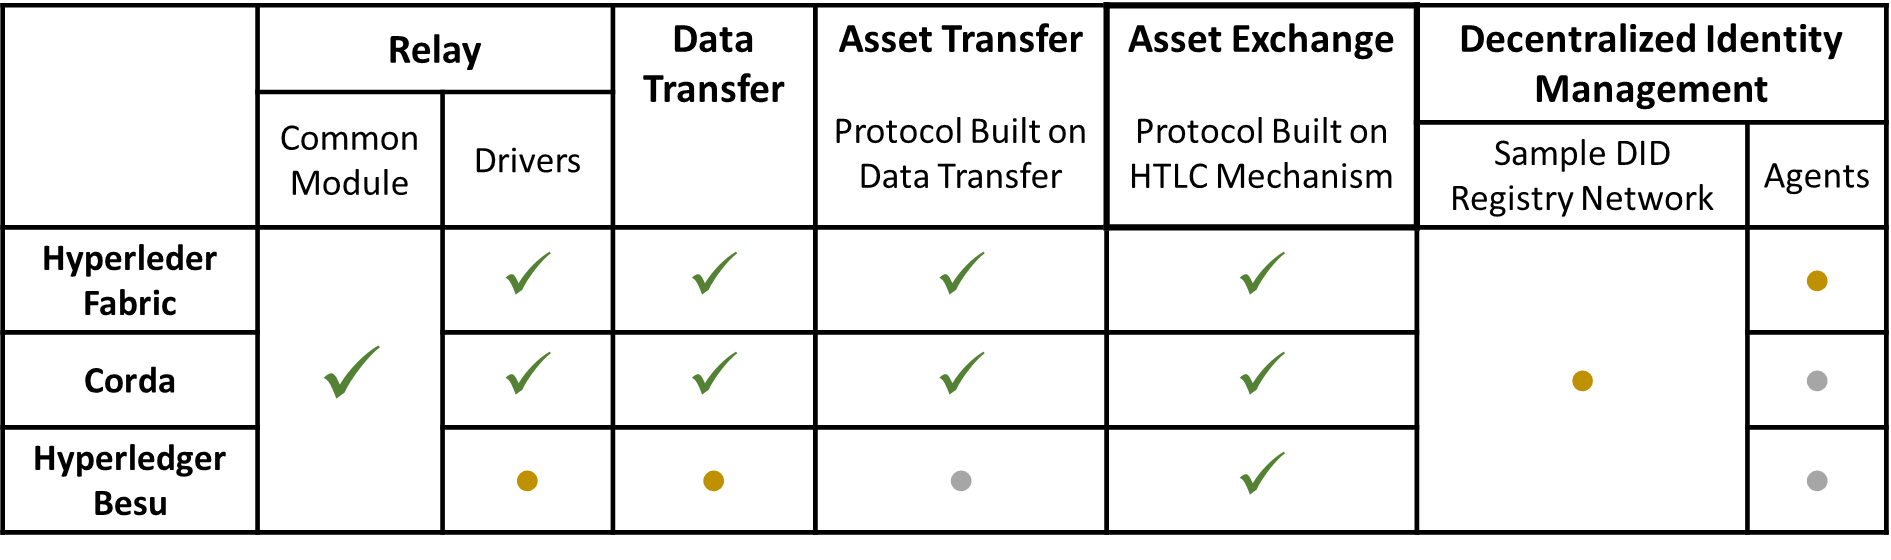
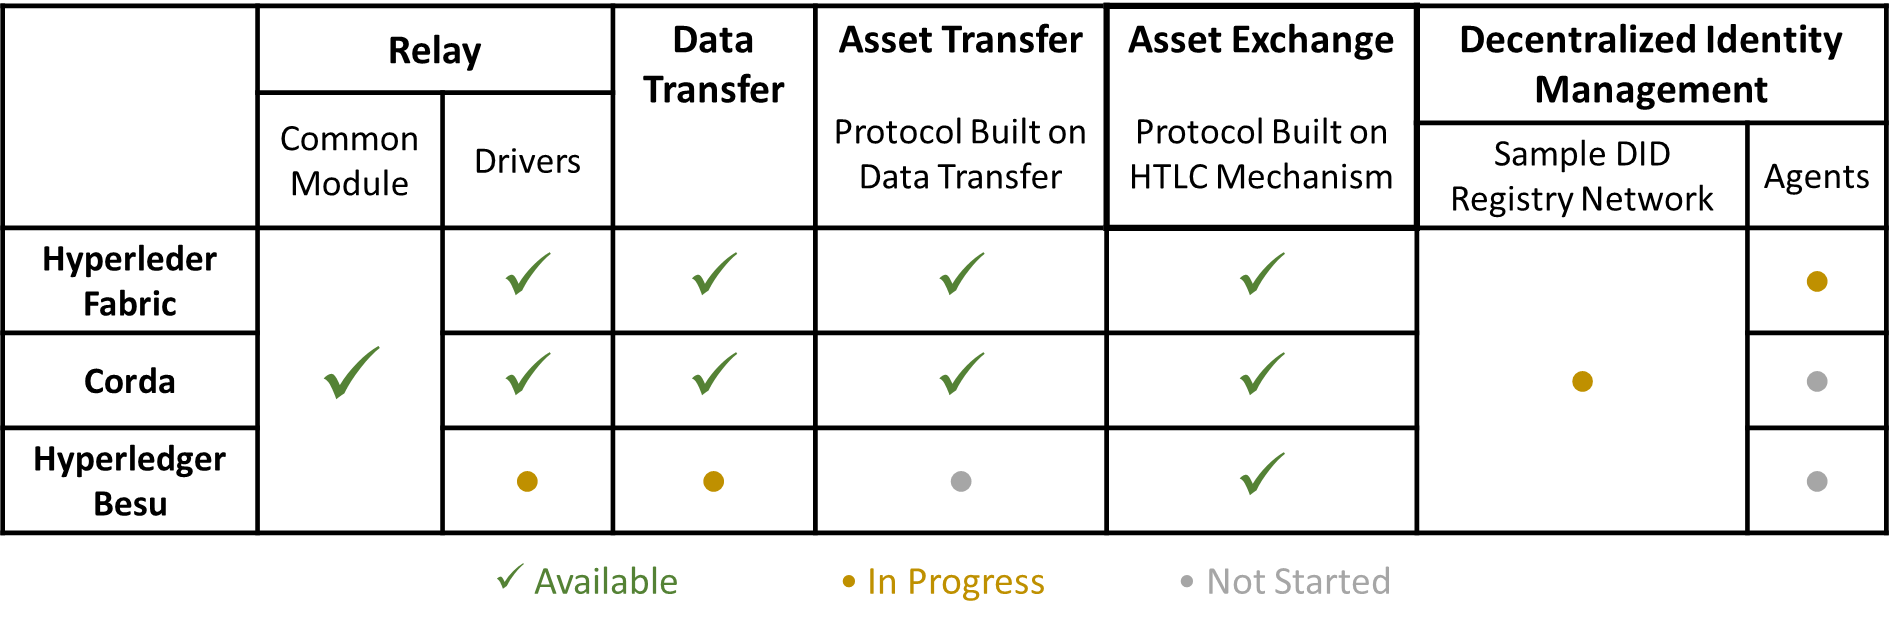
Updated main README and fixed broken image links in rfcs

diff --git a/README.md b/README.md
@@ -10,27 +10,38 @@
 ![Corda Asset Exchange Status](https://github.com/hyperledger-labs/weaver-dlt-interoperability/actions/workflows/test_asset-exchange-corda.yml/badge.svg?event=push)
 ![Asset Transfer Status](https://github.com/hyperledger-labs/weaver-dlt-interoperability/actions/workflows/test_asset-transfer.yml/badge.svg?event=push)
 
-## Short Description
-A framework, with a family of protocols, to enable interoperation for data sharing and asset movements among independent networks built on similar or different distributd ledger technologies (DLTs) in a manner that preserves the core blockchain tenets of decentralization and security.
-
-## Scope of Lab
-- We aim to provide a framework that allows two independent networks, typically (though not limited to) permissioned ones, to interoperate on a need basis.
+Weaver is a framework, with a family of protocols, to enable interoperation for data sharing and asset movements among independent networks built on similar or different distributed ledger technologies (DLTs) in a manner that preserves the core blockchain tenets of decentralization and security. To this end, it is built on a particular design philosophy that differentiates it from other DLT interoperability solutions in the market. This philosophy can be summarized through the following design principles or guidelines:
+- A network is self-sovereign in matters of governance and should be able to choose who, how, and when, to interoperate with.
 - Interoperation does not rely on trusted mediators. Rules and requirements are framed using the networks' internal governance mechanisms.
 - Interoperation relies minimally on shared infrastructure, which may provide identity, discovery, and routing, services but does not play a part in core cross-network transactions (which may involve request-response protocols).
 - Interoperation occurs through protocols that derive their trust from the counterparty networks' native consensus mechanisms, because any cross-network transaction method that eschews or bypasses the respective networks' consensus mechanisms will be vulnerable to failure or attack.
-- Core capabilities (or suported use cases) include data-sharing across ledgers with proof of authenticity and provenance, atomic asset transfers between networks, and atomic asset exchanges in multiple networks.
-- Our framework offers common components that can be reused in networks built on any arbitrary DLT as well as design templates for components that must be built on DLT-specific tech stacks. We will strive to provide acclerators that minimize the effort involved in building DLT-specific components. Presently, we support Hyperledger Fabric and Corda, and to some extent Hyperledger Besu.
+- Interoperation should be enabled without requiring modifications to the DLT stack on which a network is built nor should it disrupt regular network operation. All that should be required are addition and configuration of enabling modules and adapting application workflows to make them interoperation-aware.
+
+## Weaver Use Cases
+The framework allows two independent networks built on the same or different DLTs to interoperate on a need basis. Though presently, Weaver supports only permissioned DLTs (Hyperledger Fabric, Corda, and to some extent Hyperledger Besu), the design encompasses both permissioned and open DLTs. We expect to add support to the latter (e.g., Ethereum, Bitcoin) in due course.
+
+Weaver, in effect, allows smart contracts managing data and assets on their respective ledgers to interlink and thereby produce an augnmented business workflow that can span multiple shared ledgers and networks. The core capabilities (or use cases) in Weaver that are the building blocks for cross-network operations are:
+- Data-sharing across ledgers with proof of authenticity and provenance
+- Atomic asset transfers between networks
+- Atomic asset exchanges in multiple networks
+Each capability is implemented as a protocol with the endpoints being the respective peer networks that arrive at ledger state update decisions through consensus. See the [project overview](./OVERVIEW.md) for more information and references.
+With Weaver, limited-scope blockchain networks can be scaled up to a _network-of-networks_ where different DLT networks can interoperate using Weaver's protocols ad hoc, thereby creating an illusion of a worldwide distributed ledger (or blockchain) without requiring netowrks to sacrifice their independence. This is illustrated in the figure below.
+
+<img src="./resources/images/weaver-vision.png">
+
+## Weaver Components
+The framework offers common components that can be reused in networks built on any arbitrary DLT as well as design templates for components that must be built on DLT-specific tech stacks. We will strive to provide acclerators that minimize the effort involved in building DLT-specific components. Presently, we support Hyperledger Fabric and Corda, and to some extent Hyperledger Besu.
 - The key platform elements are:
   * Protocol units, namely request access control, generation and verification of ledger state authenticity proofs, hash- and time-locking of assets, and claiming and unlocking of assets. These units leverage the networks' native smart contract frameworks.
   * Generic and extensible patterns for _ledger views_ and _view addresses_ for seamless inter-network communication. Our goal is to provide a basis for an eventual standard that is not tied to a particular DLT implementation.
   * Generic (i.e., not DLT-specific) semi-trusted _relay_ modules that mediate communication while acting on behalf of individual networks. They serve discovery and routing purposes akin to the routing and DNS infrastructure of the conventional internet.
   * DLT-specific plugins called _drivers_ that augment relay capabilities with query- and response-translation mechanisms.
-  * Agents, consisting of both generic and DLT-specific features, that sync foreign networks' membership lists and identity provider credentials, using existing decentralized identity (DID) and verifiable credential (VC) ins=frastructure.
+  * Agents, consisting of both generic and DLT-specific features, that sync foreign networks' membership lists and identity provider credentials, using existing decentralized identity (DID) and verifiable credential (VC) infrastructure.
 - Apart from the core platform features listed above, we provide SDK extensions for network application users to adapt existing apps for interoperability.
-- We will provide and maintain a basic _testnet_ for rapid prototyping and testing.
+- We provide and maintain basic _testnets_ built on different DLTs (Fabric, Corda, Besu at present) for rapid prototyping and testing.
 For more details and illustrations, see the [project overview](./OVERVIEW.md).
 
-# Weaver Support Status
+## Weaver Support Status
 The table below shows what interoperation capabilities (or use cases) are presently supported by Weaver, and what DLTs the platform offers out-of-the-box components for.
 - Any network built on a supported DLT can utilize Weaver capabilities with additional effort required only in configuration and minor adaptations in applications to exercise those capabilities as required in their workflows.
 - For any unsupported DLT, engineering effort will be required to build protocol units, drivers, and identity sync agents, using Weaver's common protobuf structures, design templates, and API specifications. (Because DLTs are heterogeneous with divergent models for data storage, smart contracts, and distributed application development procedures, it is difficult to write reusable code for this purpose.)
@@ -53,16 +64,21 @@ Prominent features in our future roadmap are:
 - Testing, experimentation, and evaluation frameworks, are implemented in the [tests](./tests) folder.
   * An extensible _testnet_ is implemented in the [tests/network-setups folder](./tests/network-setups) to spin up basic Fabric, Corda, and Besu networks, and test various cross-network operations.
 
-## Initial Committers
+## Active Maintainers
 - https://github.com/VRamakrishna
+- https://github.com/sanvenDev
+- https://github.com/knarayan
+- https://github.com/dhinakaran2705
+
+## Other Contributors
+- https://github.com/ghoshbishakh
+
+## Initial Committers
 - https://github.com/ermyas
 - https://github.com/nwaywood
 - https://github.com/dileban
 - https://github.com/airvin
 - https://github.com/AntTargett
-- https://github.com/sanvenDev
-- https://github.com/knarayan
-- https://github.com/dhinakaran2705
 - https://github.com//Yining-Hu
 - https://github.com/Vinayaka-Pandit
 - https://github.com/hyp0th3rmi4

diff --git a/rfcs/models/ledger/views.md b/rfcs/models/ledger/views.md
@@ -21,11 +21,11 @@
 
 A view is an abstract representation of state projected from a ledger that is consumable by external clients. Views are uniquely addressable and can either be _static_ (based on a fixed snapshot of the ledger) or _dynamic_ (based on a "current" snaphot of the ledger).
 
-<img src="../resources/images/view-projection.png" width=60%>
+<img src="../../resources/images/view-projection.png" width=60%>
 
 The state represented by a view depends on the underlying ledger and the types of projections made available. Views can represent a single object on the ledger, a collection of objects or any arbitrary computation. The sematics of a view therefore depends on the specific instance of the ledger and the decisions made on what state is externally consumable and in what form.
 
-<img src="../resources/images/view-types.png" width=65%>
+<img src="../../resources/images/view-types.png" width=65%>
 
 
 ## Projecting Views
@@ -40,7 +40,7 @@ Views are manifested using operators called _getters_. View operators are implem
 The schematic representation of getters are dependent on the underlying distributed ledger protocol, but are conceptually abstrated away from clients consuming a view through the use of [_view addresses_](../formats/addressing.md). Although getters can be visible to external clients, their sematics and usage are transparent. This allows networks to use alternate representations for getters without requiring external clients to treat these in different ways. In other words, an external client is free from the understanding the implementation of an operator - the client is interested in the _what_ not the _how_.
 
 
-<img src="../resources/images/view-operator.png" width=65%>
+<img src="../../resources/images/view-operator.png" width=65%>
 
 ### Examples of Getters
 
@@ -83,7 +83,7 @@ See RFCs on specific ledger protocols for getter constructions.
 
 A view is composed of two segments. A segment that contains state from the underlying ledger, accompanied by a cryptographic proof, and a second segment that contains meta-data about the state. The structure of the data segment in a view depends on the underlying ledger protocol and the data schema of the ledger. The meta-data describes attributes of the state including type of proof, ledger protocol and serialization format. The meta-data enables consumers of views to recognize, parse and verify the integrity of views, including long after the view has been constructed.
 
-<img src="../resources/images/view-anatomy.png" width=55%>
+<img src="../../resources/images/view-anatomy.png" width=55%>
 
 
 ## Related Art

diff --git a/rfcs/protocols/events/event-bus.md b/rfcs/protocols/events/event-bus.md
@@ -16,7 +16,7 @@
 
 See specification on [events](../models/events.md) for event types.
 
-<img src="../resources/images/event-types.png" width=45%>
+<img src="../../resources/images/event-types.png" width=45%>
 
 ## Event Capture and Delivery
 
@@ -31,7 +31,7 @@ See specification on [events](../models/events.md) for event types.
   * Fine grained control of which application events are visible to drivers might be hard to achieve.
 * Drivers must maintain additional state locally in order to provide delivery guarantees (e.g at least once, sequencing, etc).
 
-<img src="../resources/images/event-capture-application-system.png" width=60%>
+<img src="../../resources/images/event-capture-application-system.png" width=60%>
 
 
 ### Weaver Events
@@ -43,7 +43,7 @@ See specification on [events](../models/events.md) for event types.
   * State for ensuring delivery guarantees, sequencing etc can be tracked on the ledger.
 * The data model for Weaver events are easier to enforce, which applications must comply with.
 
-<img src="../resources/images/event-capture-graphene.png" width=60%>
+<img src="../../resources/images/event-capture-graphene.png" width=60%>
 
 ## Event Proofs
 

diff --git a/rfcs/models/identity/iin.md b/rfcs/models/identity/iin.md
@@ -45,7 +45,7 @@ See specifications of *Network Identity* and *Participant Unit Identity* DID for
 
 ## Credential Schema, Verification Keys and Revocation Lists
 
-A DID Document is not inherently mapped to any entity's physical identity [[did-core](https://www.w3.org/TR/did-core/#binding-to-physical-identity)] and the DID Documents are not supposed to contain any personal data. In order to bind a person's / organization's identity to the DID, or assert any other claims about the DID's subject, verifiable credentials are used.
+A DID Document is not inherently mapped to any entity's physical identity [did-core](https://www.w3.org/TR/did-core/#binding-to-physical-identity) and the DID Documents are not supposed to contain any personal data. In order to bind a person's / organization's identity to the DID, or assert any other claims about the DID's subject, verifiable credentials are used.
 
 The IIN must support two kinds of claims to be issued by trust anchors to the DIDs:
 

diff --git a/rfcs/protocols/asset-exchange/asset-exchange-htlc.md b/rfcs/protocols/asset-exchange/asset-exchange-htlc.md
@@ -21,7 +21,7 @@ Hash Time Locked Contracts (HTLCs) is a non-custodial approach to exchanging ass
 
 The following figure describes the flow of a two-party exchange.
 
-<img src="../resources/images/asset-exchange-htlc-example.png" width=80%>
+<img src="../../resources/images/asset-exchange-htlc-example.png" width=80%>
 
 Alice and Bob agree on a deal off-chain to exchange assets A for B. In practice assets A and B could be fungible or non-fungile and the deal is based on their fair value. Alice and Bob also agree on the refund period for the deal and decide who will go first. The process for exchanging the assets then proceeds as follows.
 
@@ -36,7 +36,7 @@ In the event Alice fails to claim Bob's asset before the refund period *t* elaps
 
 ## Overview of Protocol Flow
 
-<img src="../resources/images/asset-exchange-htlc-flow.png" width=95%>
+<img src="../../resources/images/asset-exchange-htlc-flow.png" width=95%>
 
 
 ## Protocol Messages

diff --git a/rfcs/models/ledger/events.md b/rfcs/models/ledger/events.md
@@ -20,7 +20,7 @@
 
 The events generated by a distributed ledger can fall into one of three categories, application events, system events, or Weaver events.
 
-<img src="../resources/images/events.png" width=60%>
+<img src="../../resources/images/events.png" width=60%>
 
 ### Application Events
 
@@ -48,4 +48,4 @@ Weaver events are events registered by an application Dapp with the Weaver Dapp.
 
 External agents can subscribe to events of a named *topic*. An authorized subscriber will receive events publish by the ledger. Topics can vary from system events to events related to the life-cycle of an object stored on the ledger.
 
-<img src="../resources/images/event-subscribers.png" width=80%>
+<img src="../../resources/images/event-subscribers.png" width=80%>

diff --git a/rfcs/protocols/asset-exchange/asset-exchange-corda-htlc.md b/rfcs/protocols/asset-exchange/asset-exchange-corda-htlc.md
@@ -35,7 +35,7 @@ The procedures for setting up an HTLC one one Corda network, which would need to
 
 Both claiming and refunding transactions can be performed unilaterally because during the locking phase the asset is associated with a Composite key of the two parties.
 
-![Corda HTLC](../resources/images/cordapp-htlc.png)
+![Corda HTLC](../../resources/images/cordapp-htlc.png)
 
 ### Generalisability
 The hash lock encumbrance state and associated contract can be offered as reusable pieces as part of Weaver. These pieces are largely agnostic of the specifics of the application. They can further be instrumented to *emit* custom Weaver events making automation of the orchestration of cross-chain HTLCs possible.

diff --git a/rfcs/models/security/security.md b/rfcs/models/security/security.md
@@ -11,7 +11,7 @@ Security domains are defined on external entities such as a thing, person, organ
 
 A security domain is an abstract concept used to group a set of members to various policies. The relation between the various concepts is shown in the image below.
 
-<img src="../resources/images/security-group.png" width=100%>
+<img src="../../resources/images/security-group.png" width=100%>
 
 ### Members and Traits of Security Domains
 

diff --git a/rfcs/formats/network/memberships.md b/rfcs/formats/network/memberships.md
@@ -48,7 +48,7 @@ The `type` of a member can be one of the following:
 -   `certificate` - The member is indentified by a certificate chain, if `chain` has a value, otherwise just by `value`
 -   `any` - For use in permissionless networks (see below)
 
-<img src="../resources/images/membership.png" width=100%>
+<img src="../../resources/images/membership.png" width=100%>
 
 ## Examples
 

diff --git a/rfcs/models/infrastructure/relays.md b/rfcs/models/infrastructure/relays.md
@@ -15,5 +15,5 @@
 
 ## Relays for Cross-Ledger Communication
 
-<img src="../resources/images/relay-model-distributed-ledgers.png" width=100%>
+<img src="../../resources/images/relay-model-distributed-ledgers.png" width=100%>
 
